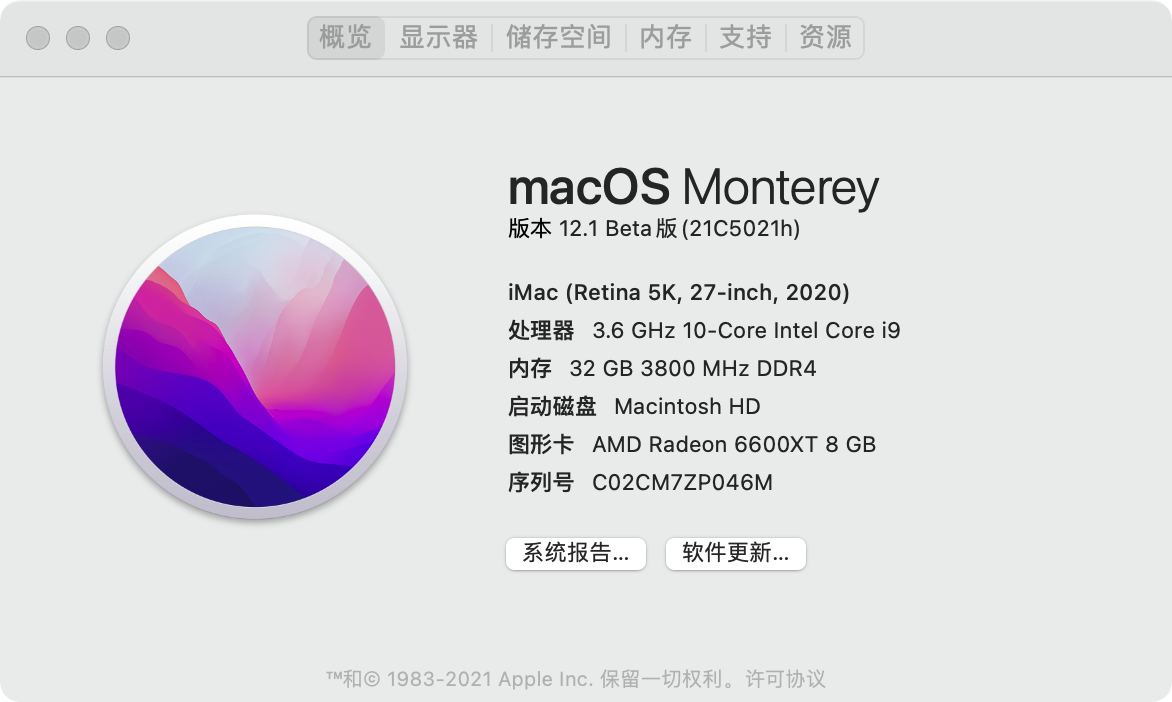
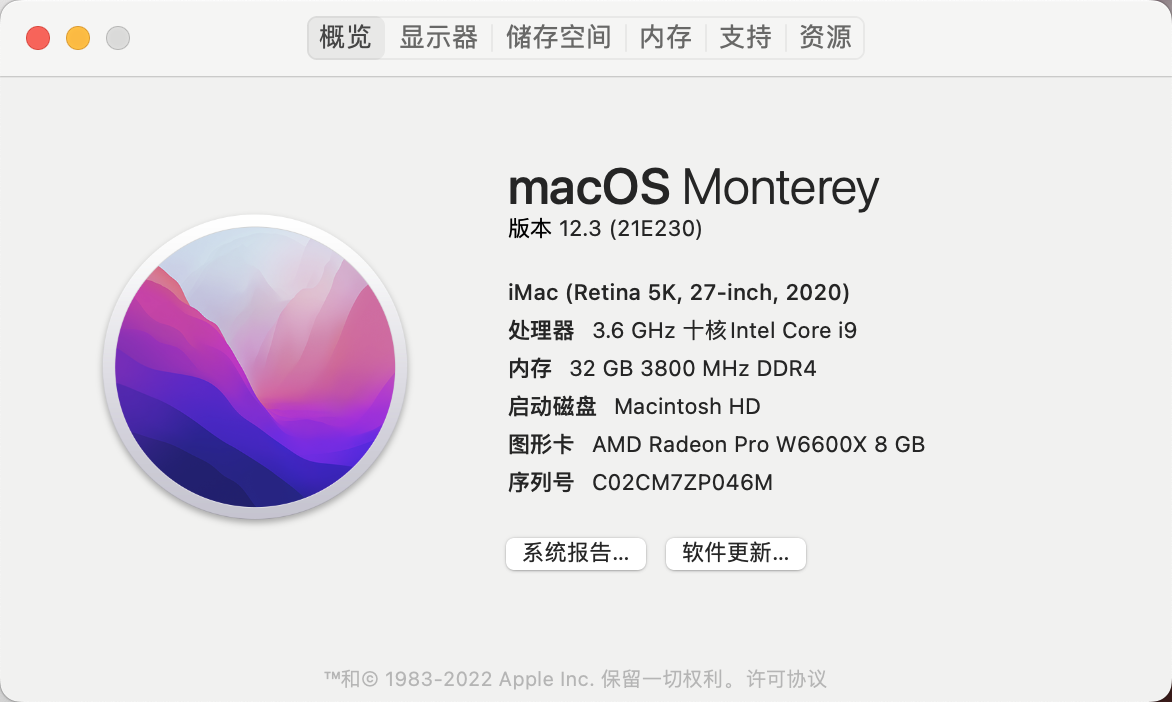
Update README.md

diff --git a/README.md b/README.md
@@ -7,7 +7,7 @@ Hackintosh - AsRock Z490 Phantom Gaming ITX/TB3 - intel Core 10850k - OpenCorePk
 |规格 | 详细信息|
 |:-: | :-:|
 |主板| AsRock Z490 Phantom Gaming ITX/TB3 |
-|操作系统| **macOS** Monterey 12.2 Beta版(21D5025f) |
+|操作系统| **macOS** Monterey 12.3 (21E230) |
 |处理器| Intel Core 10850k |
 |内存| G.SKILL 皇家戟 DDR4 16G×2 3200Mhz （OC 3800Mhz C18-22-22-42）|
 |硬盘| WD_BLACK SN750 1TB x 2 / WD_BLACK 黑盘 1TB SATA6Gb/s 7200转64M x 1 |
@@ -101,8 +101,8 @@ Hackintosh - AsRock Z490 Phantom Gaming ITX/TB3 - intel Core 10850k - OpenCorePk
 
  - 显卡性能提升也可以使用**DeviceProperties**注入 
  
-### Sapphire RX 6600XT
-- **SSDT-AMD Radeon RX 6600XT.aml**AMD Radeon RX 6600XT性能增强SSDT（需要配合**SSDT-DTGP.aml**一起使用），相同显卡可开启
+### Sapphire Radeon RX 6600XT
+- **SSDT-AMD Radeon Pro W6600X.aml**AMD Radeon RX 6600XT性能增强SSDT（需要配合**SSDT-DTGP.aml** **AGPMInjector.kext**一起使用），相同显卡可开启
 
    -  此**ssdt**使用**MorePowerTool** **显存**超频至**2250M**、解**功耗墙**至**250瓦**
    
